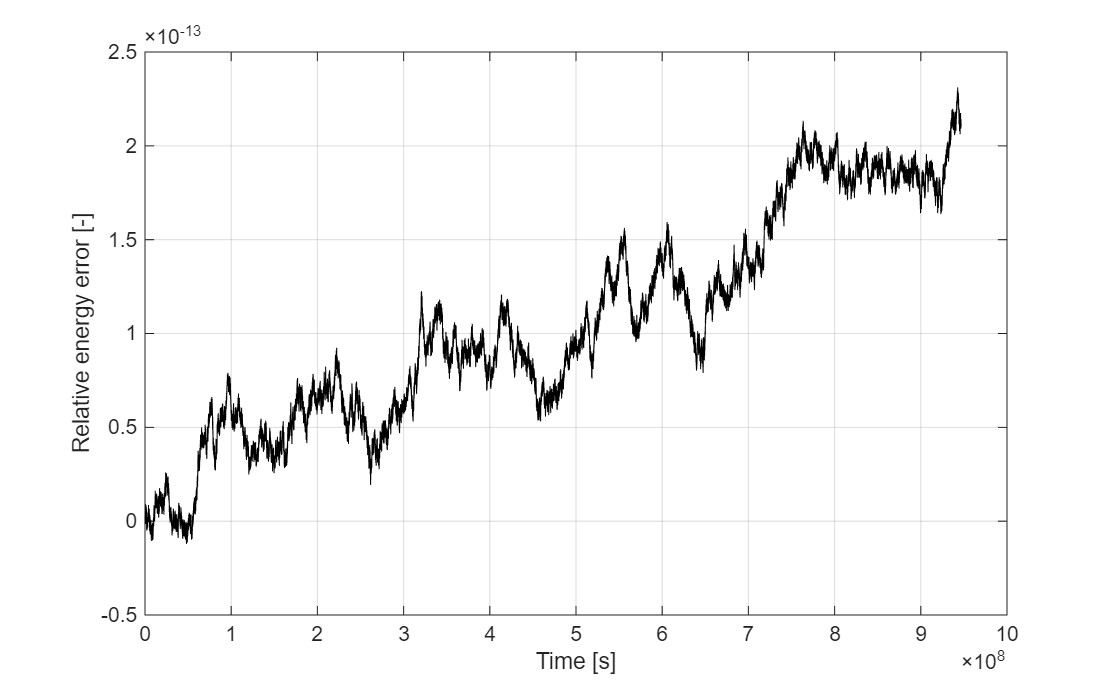
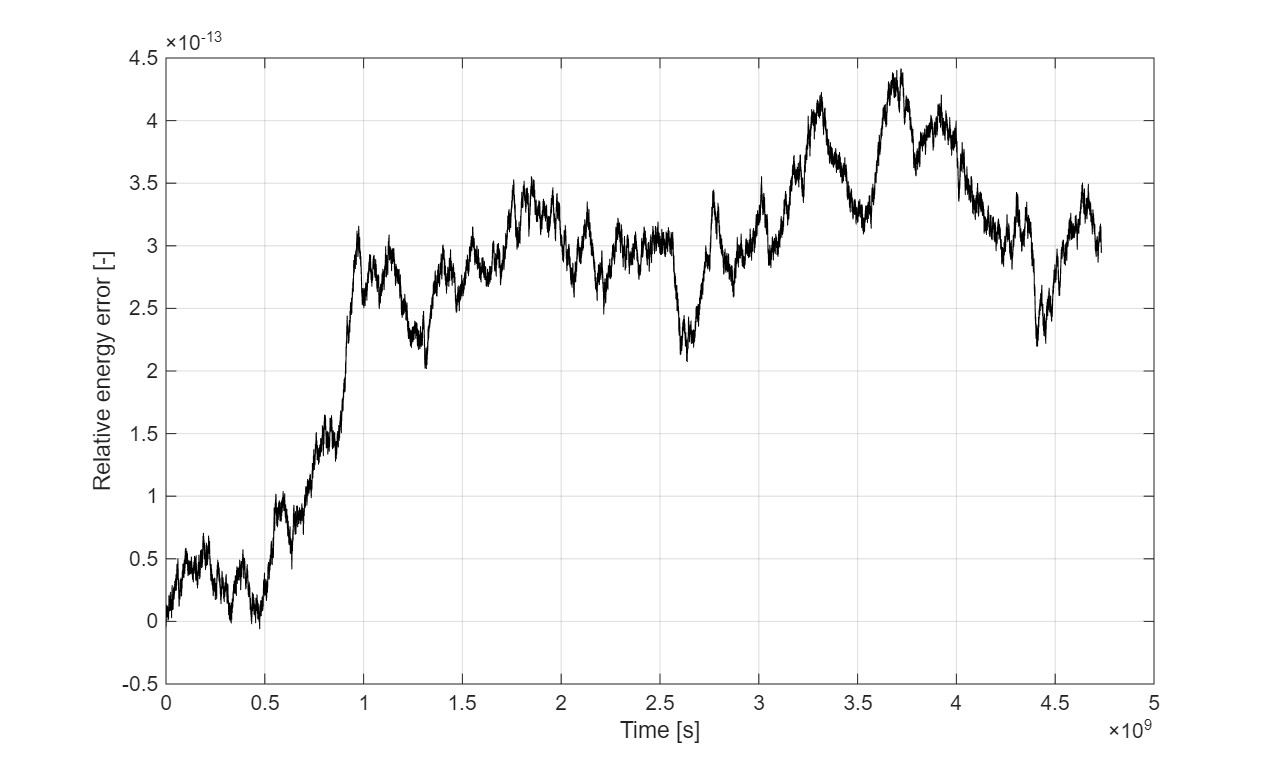
Align Shadow Hamiltonian stability text with 150-year benchmark
+ Updated simulation duration in the pseudo-energy stability and position error description from 30 to 150 years.

diff --git a/README.md b/README.md
@@ -44,9 +44,9 @@ The integrity of the physics engine is validated against theoretical limits and 
 
 ### Shadow Hamiltonian Stability
 
-Mathematical proof of engine stability. The relative pseudo-energy error remains bounded at the **O(10^-13)** level over a 30-year simulation of the Solar System (dt = 1800s).
+Mathematical proof of engine stability. The relative pseudo-energy error remains bounded at the **O(10^-13)** level over a 150-year simulation of the Solar System (dt = 3600s).
 
-> **Proof of Concept:** The high-frequency noise at the statistical error accumulation bound of $\approx 1.61 \times 10^{-13}$ confirms that symplectic bounds are perfectly maintained despite the sharp $1/r^4$ gradients introduced by the $J_2$ potential.
+> **Proof of Concept:** The high-frequency noise at the statistical error accumulation bound of $\approx 2.55 \times 10^{-13}$ confirms that symplectic bounds are perfectly maintained despite the sharp $1/r^4$ gradients introduced by the $J_2$ potential.
 
 <p align="center">
 <img src="assets/energy_error.jpg" alt="Shadow Hamiltonian Stability" width="800">
@@ -58,7 +58,7 @@ Strict energy conservation verified: Relative pseudo-energy error bounded at O(1
 
 ### JPL Horizons Benchmarking
 
-System state outputs are actively benchmarked against NASA JPL Horizons data. Discrepancies (e.g., Earth's position error of ~1728 km over 30 years) reveal the theoretical limits of a purely Newtonian N-body model. These deviations are expected and directly result from:
+System state outputs are actively benchmarked against NASA JPL Horizons data. Discrepancies reveal the theoretical limits of a purely Newtonian N-body model, with Earth's position error scaling strictly linearly over time ($\approx 1728$ km over 30 years, $\approx 5185$ km over 90 years, and $\approx 8643$ km over 150 years). This linear secular drift is expected and directly results from:
 * The absence of Einstein-Infeld-Hoffmann (EIH) general relativity corrections.
 * Unmodeled perturbations from major celestial bodies.
 * Lack of Barycentric Dynamical Time (TDB) dilation.
